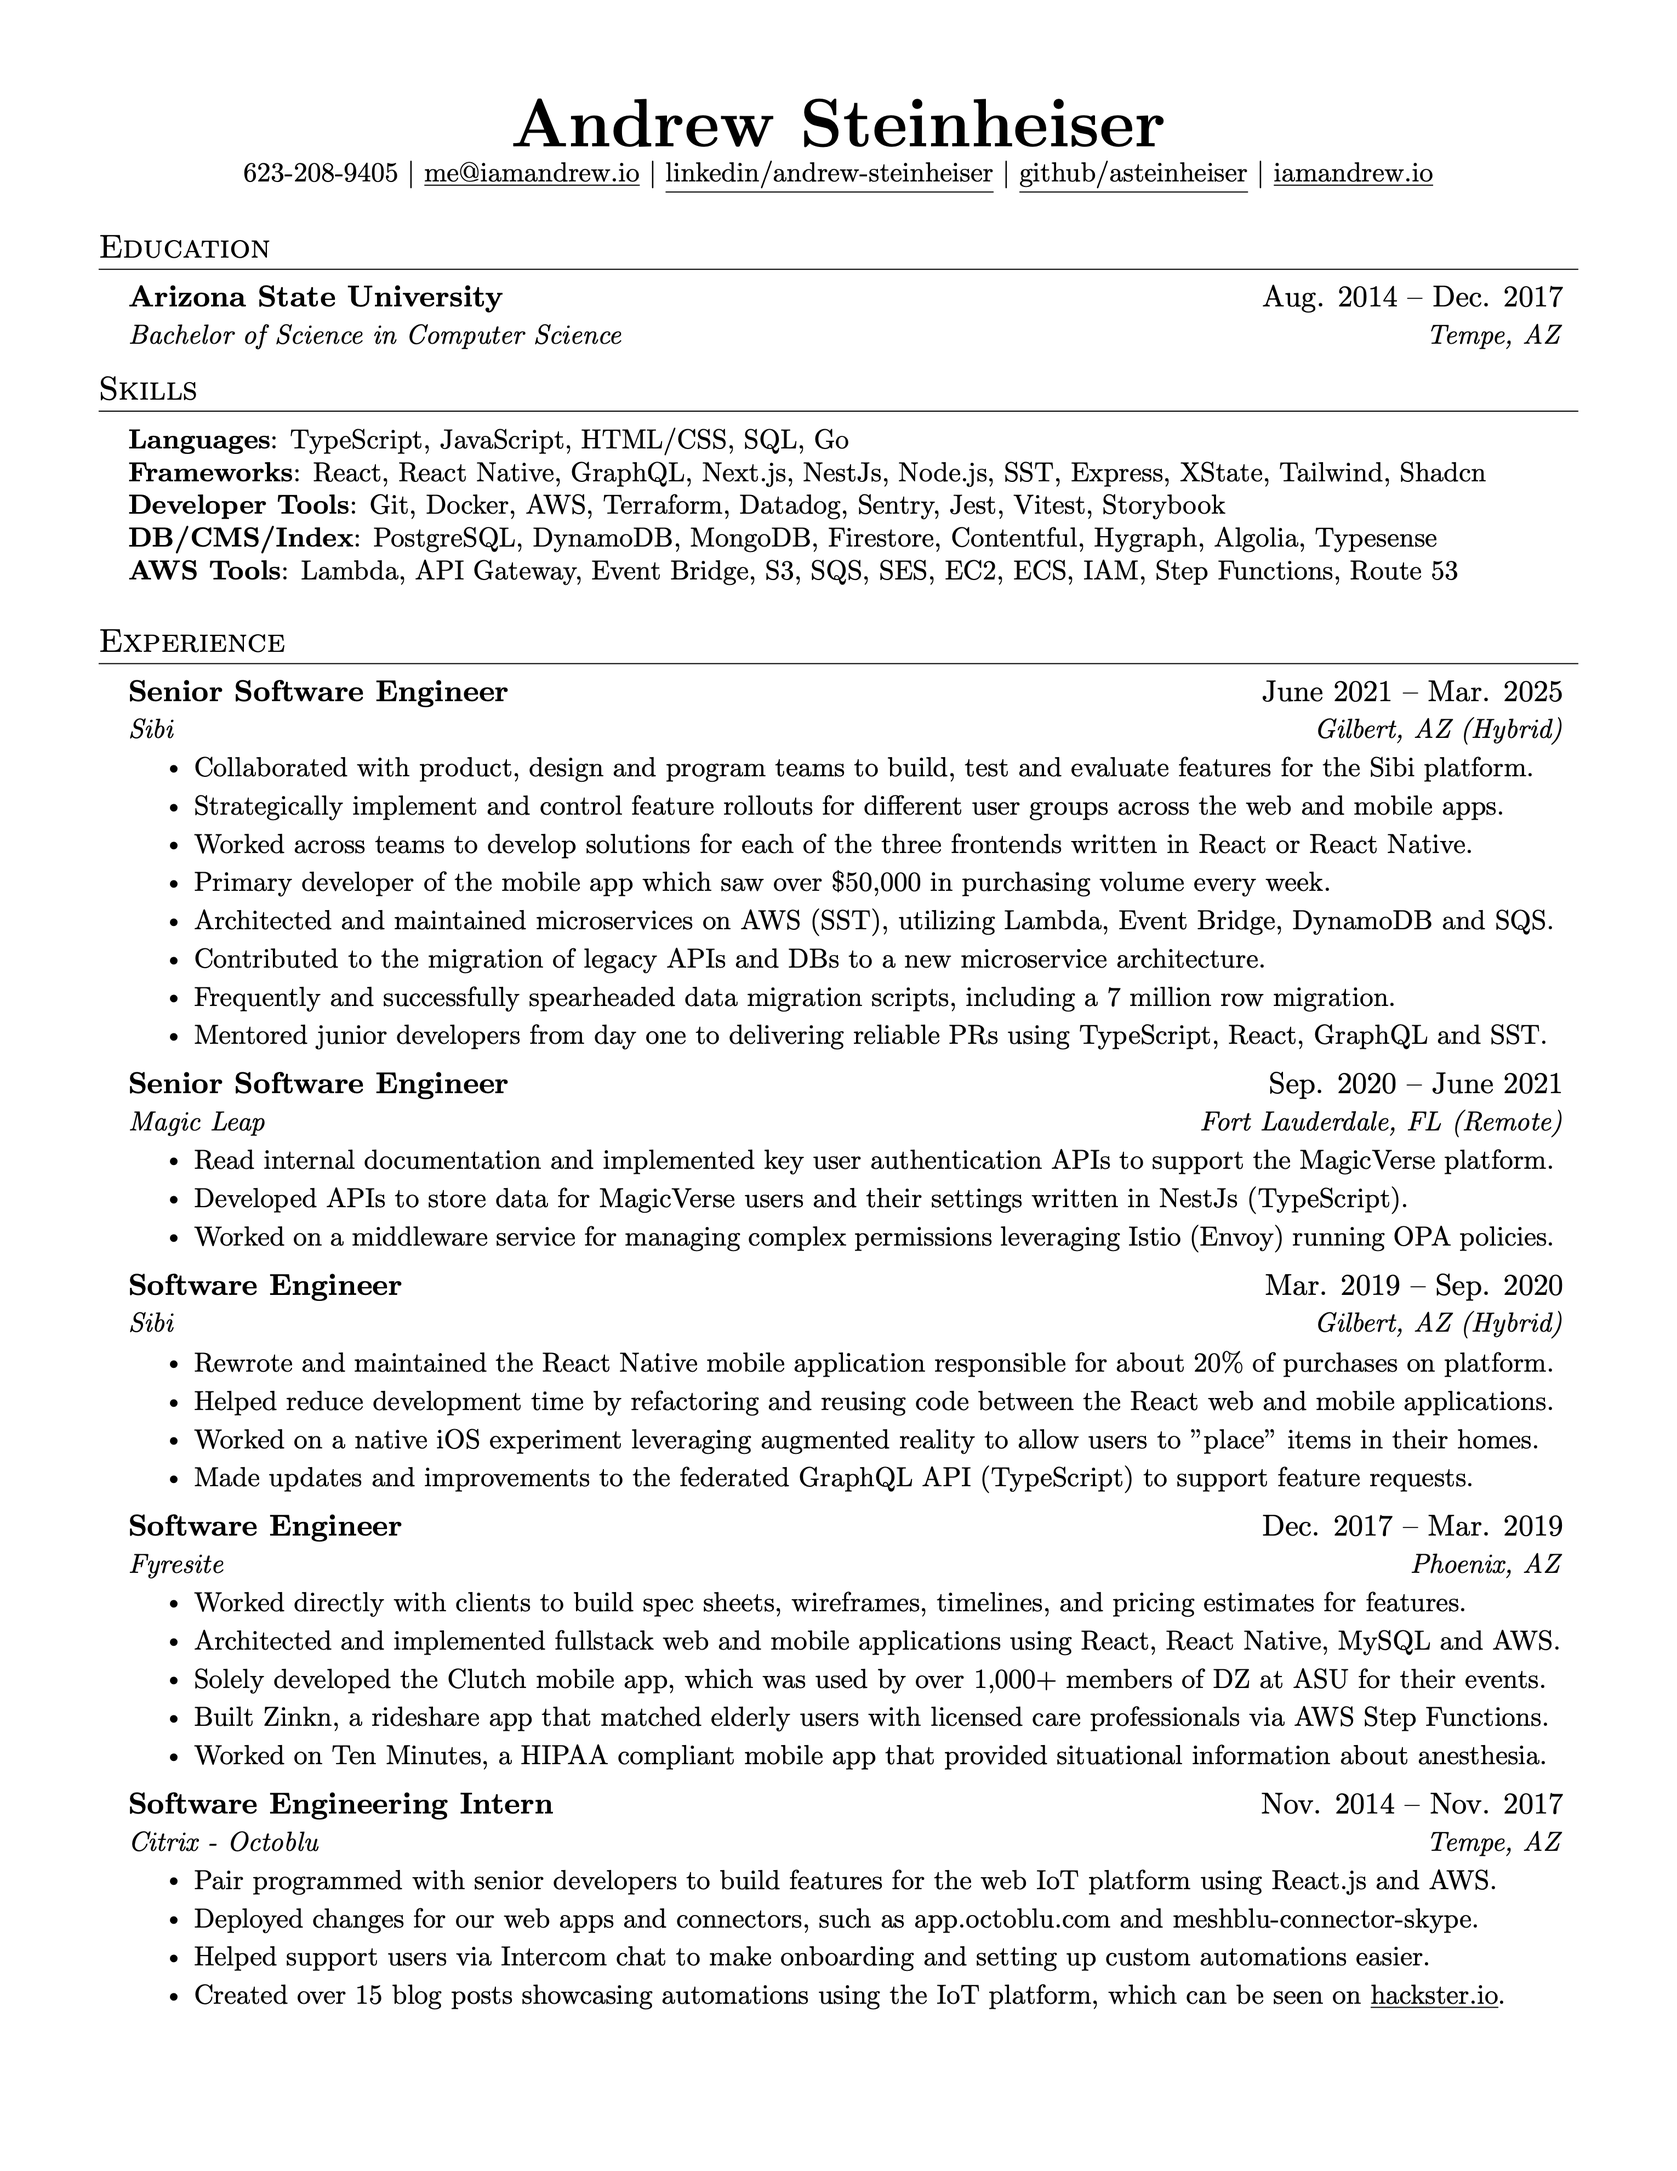
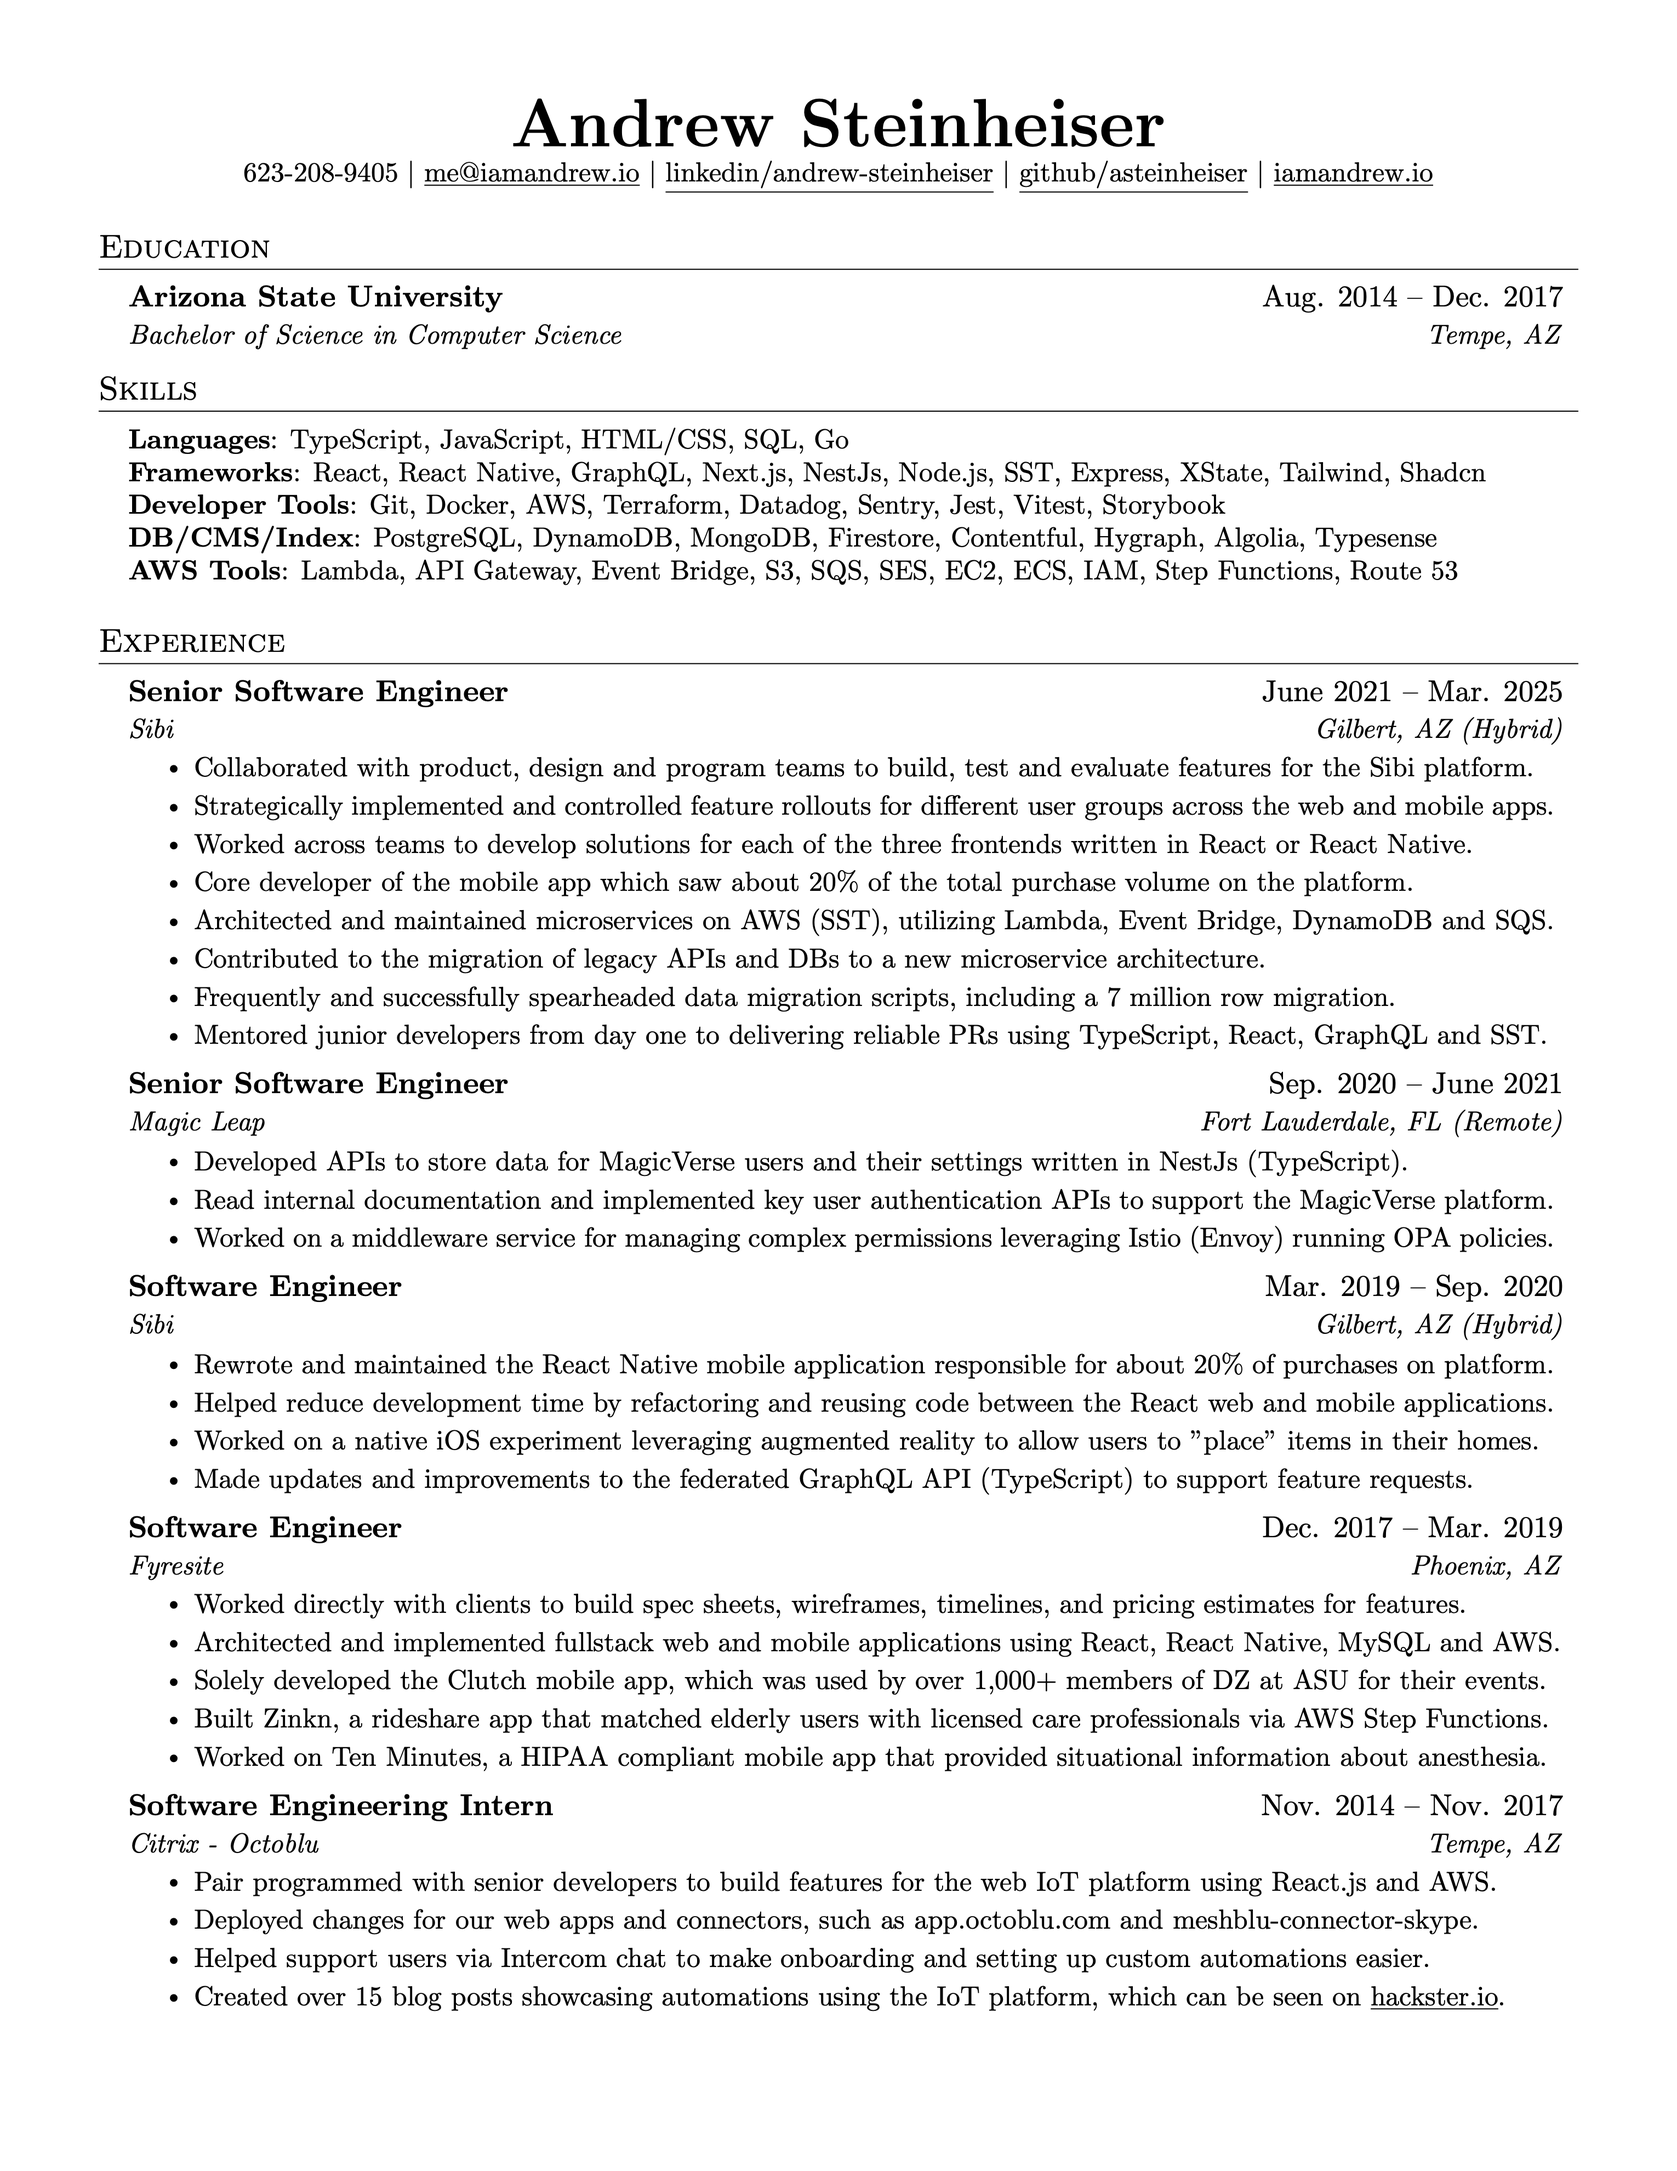
update resume

diff --git a/resume.tex b/resume.tex
@@ -141,9 +141,9 @@
       {Sibi}{Gilbert, AZ (Hybrid)}
       \resumeItemListStart
         \resumeItem{Collaborated with product, design and program teams to build, test and evaluate features for the Sibi platform.}
-        \resumeItem{Strategically implement and control feature rollouts for different user groups across the web and mobile apps.}
+        \resumeItem{Strategically implemented and controlled feature rollouts for different user groups across the web and mobile apps.}
         \resumeItem{Worked across teams to develop solutions for each of the three frontends written in React or React Native.}
-        \resumeItem{Primary developer of the mobile app which saw over \$50,000 in purchasing volume every week.}
+        \resumeItem{Core developer of the mobile app which saw about 20\% of the total purchase volume on the platform.}
         \resumeItem{Architected and maintained microservices on AWS (SST), utilizing Lambda, Event Bridge, DynamoDB and SQS.}
         \resumeItem{Contributed to the migration of legacy APIs and DBs to a new microservice architecture.}
         \resumeItem{Frequently and successfully spearheaded data migration scripts, including a 7 million row migration.}
@@ -154,8 +154,8 @@
       {Senior Software Engineer}{Sep. 2020 -- June 2021}
       {Magic Leap}{Fort Lauderdale, FL (Remote)}
       \resumeItemListStart
-        \resumeItem{Read internal documentation and implemented key user authentication APIs to support the MagicVerse platform.}
         \resumeItem{Developed APIs to store data for MagicVerse users and their settings written in NestJs (TypeScript).}
+        \resumeItem{Read internal documentation and implemented key user authentication APIs to support the MagicVerse platform.}
         \resumeItem{Worked on a middleware service for managing complex permissions leveraging Istio (Envoy) running OPA policies.}
       \resumeItemListEnd
 
@@ -210,7 +210,7 @@
             \resumeItem{Created a 2D top-down open-source RPG in React from scratch using Redux and some CSS animations/tricks.}
             \resumeItem{Has a story mode as well as a randomly generated infinite mode, where maps and monsters are created on the fly.}
             \resumeItem{10+ people contributed over the course of 4 years, and the project now has 350+ stars and 50+ forks on GitHub.}
-            \resumeItem{One of the top maintainers of Redux personally helped identify a longstanding bug in the core Redux store code.}
+            \resumeItem{One of the top maintainers of Redux helped identify a bug that was causing issues with the map data object.}
             \resumeItem{A group at Uni. of Auckland used this project for their CSE732 class by modifying the game to mimic DnD:5e.}
             \resumeItem{Try it out at \href{https://react-rpg.com}{\underline{react-rpg.com}} or check out the \href{https://github.com/ASteinheiser/react-rpg.com}{\underline{github}} for links to blog posts where I describe my process and goals.}
           \resumeItemListEnd
@@ -238,7 +238,7 @@
         \resumeItem{Launched a clothing brand by collaborating with local photographers, models, artists and clothing designers.}
         \resumeItem{Created and sold t-shirts with custom modifications, such as zippers, bleaching, etc. via my SquareSpace website.}
         \resumeItem{Worked with a local manufacturer to finalize my kimono pattern and produce a line of 25, which sold for \$139/ea.}
-        \resumeItem{Sold multiple custom lines of t-shirts, including a commission for a local artist for their short film.}
+        \resumeItem{Sold multiple custom lines of t-shirts, including a commission for a local artist to promote their short film.}
         \resumeItem{\href{https://www.instagram.com/savgthread}{\underline{instagram/savgthread}}}
       \resumeItemListEnd
    }}
